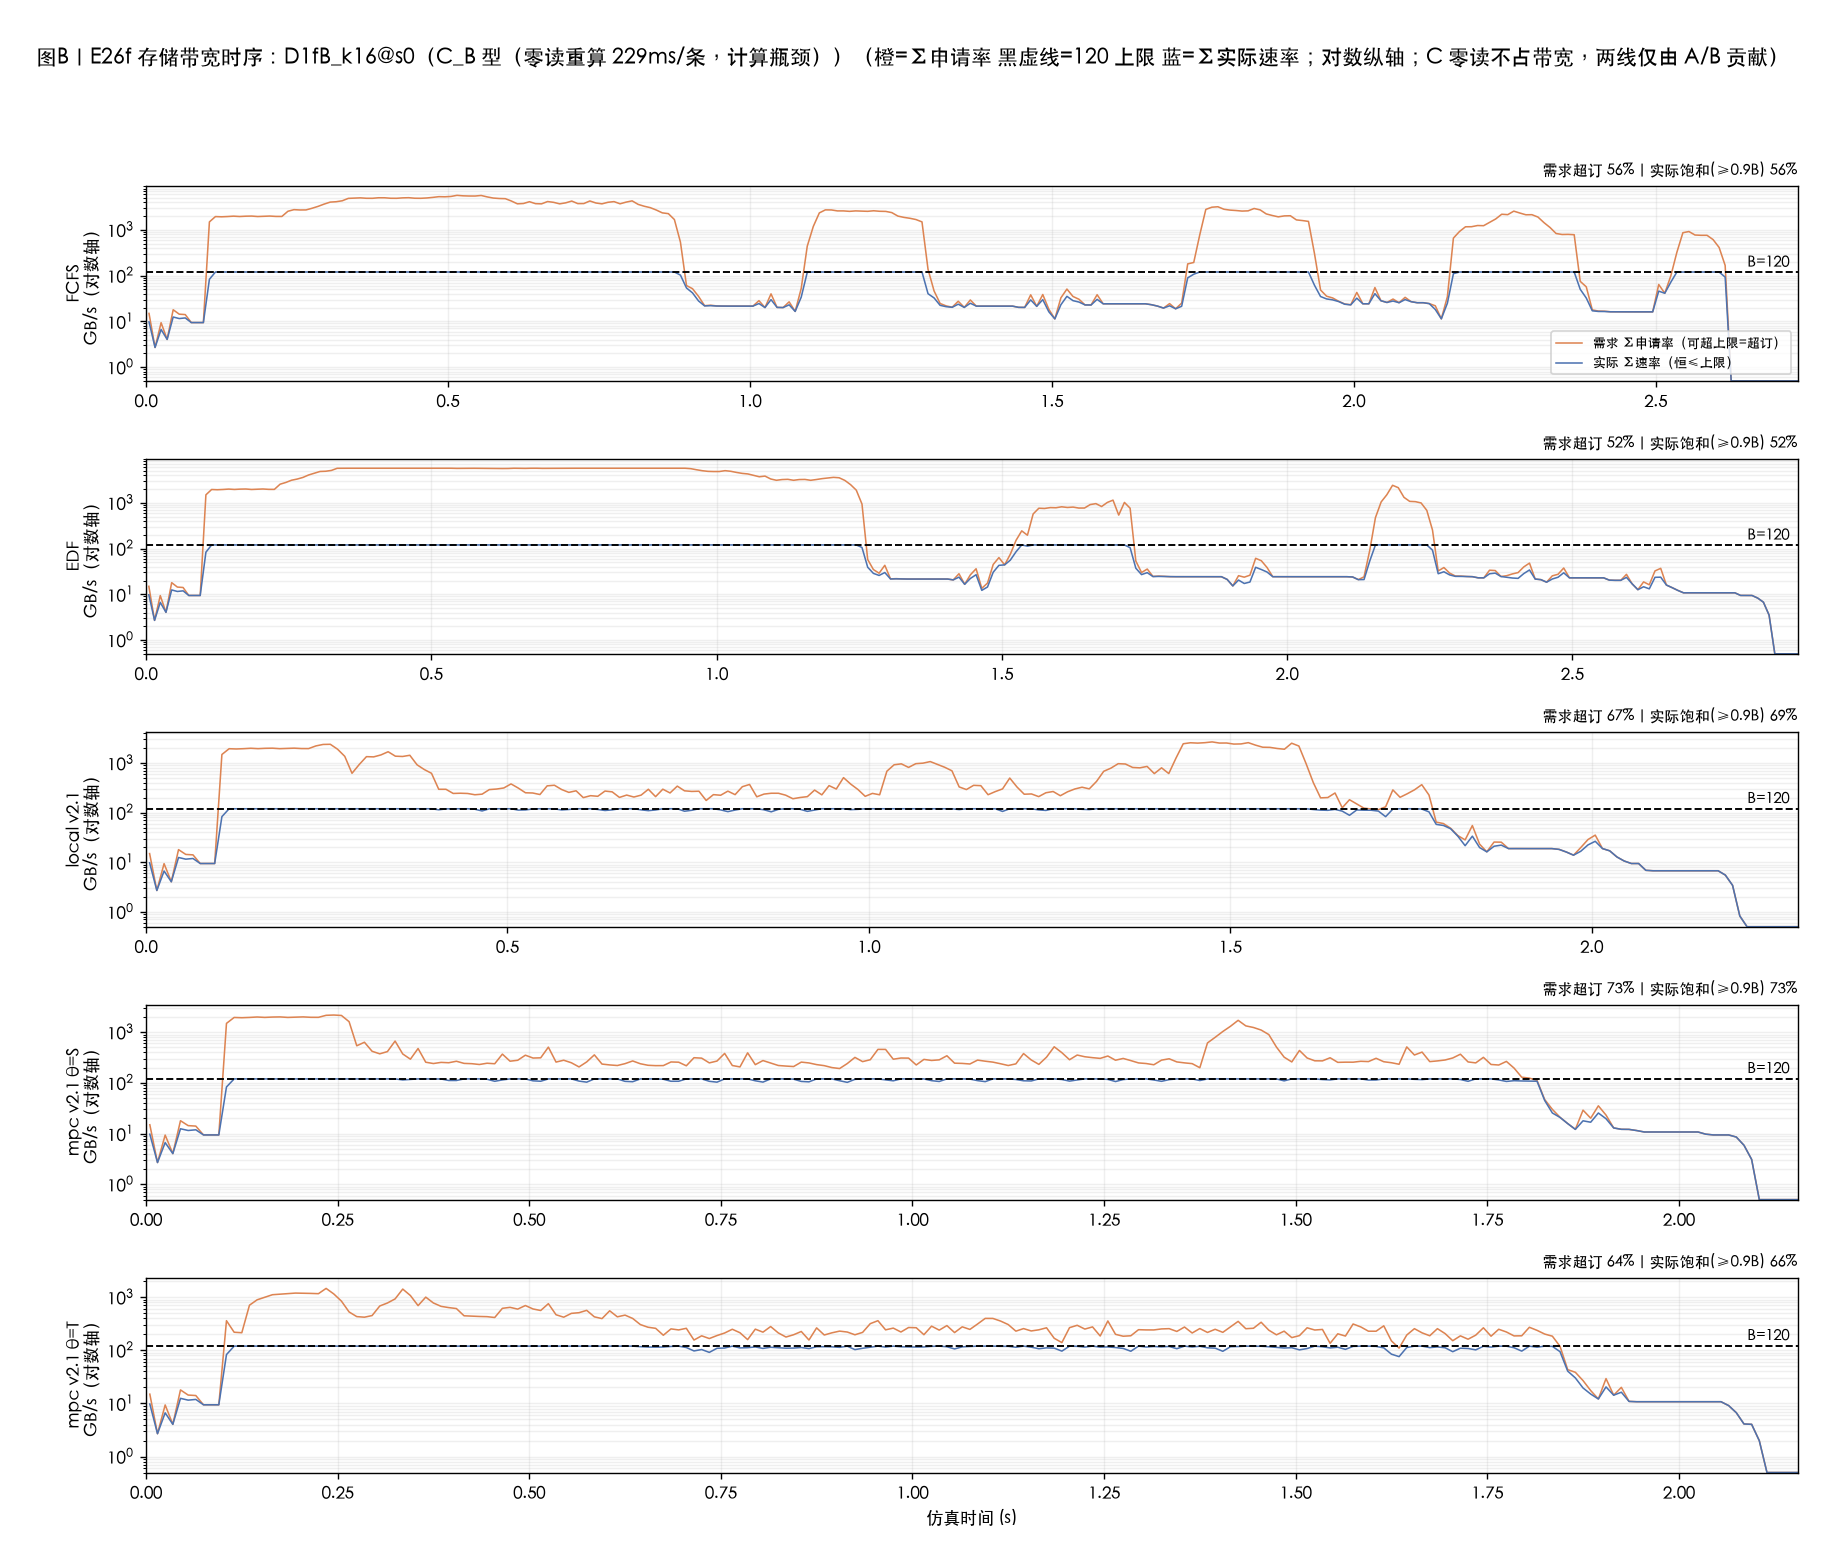
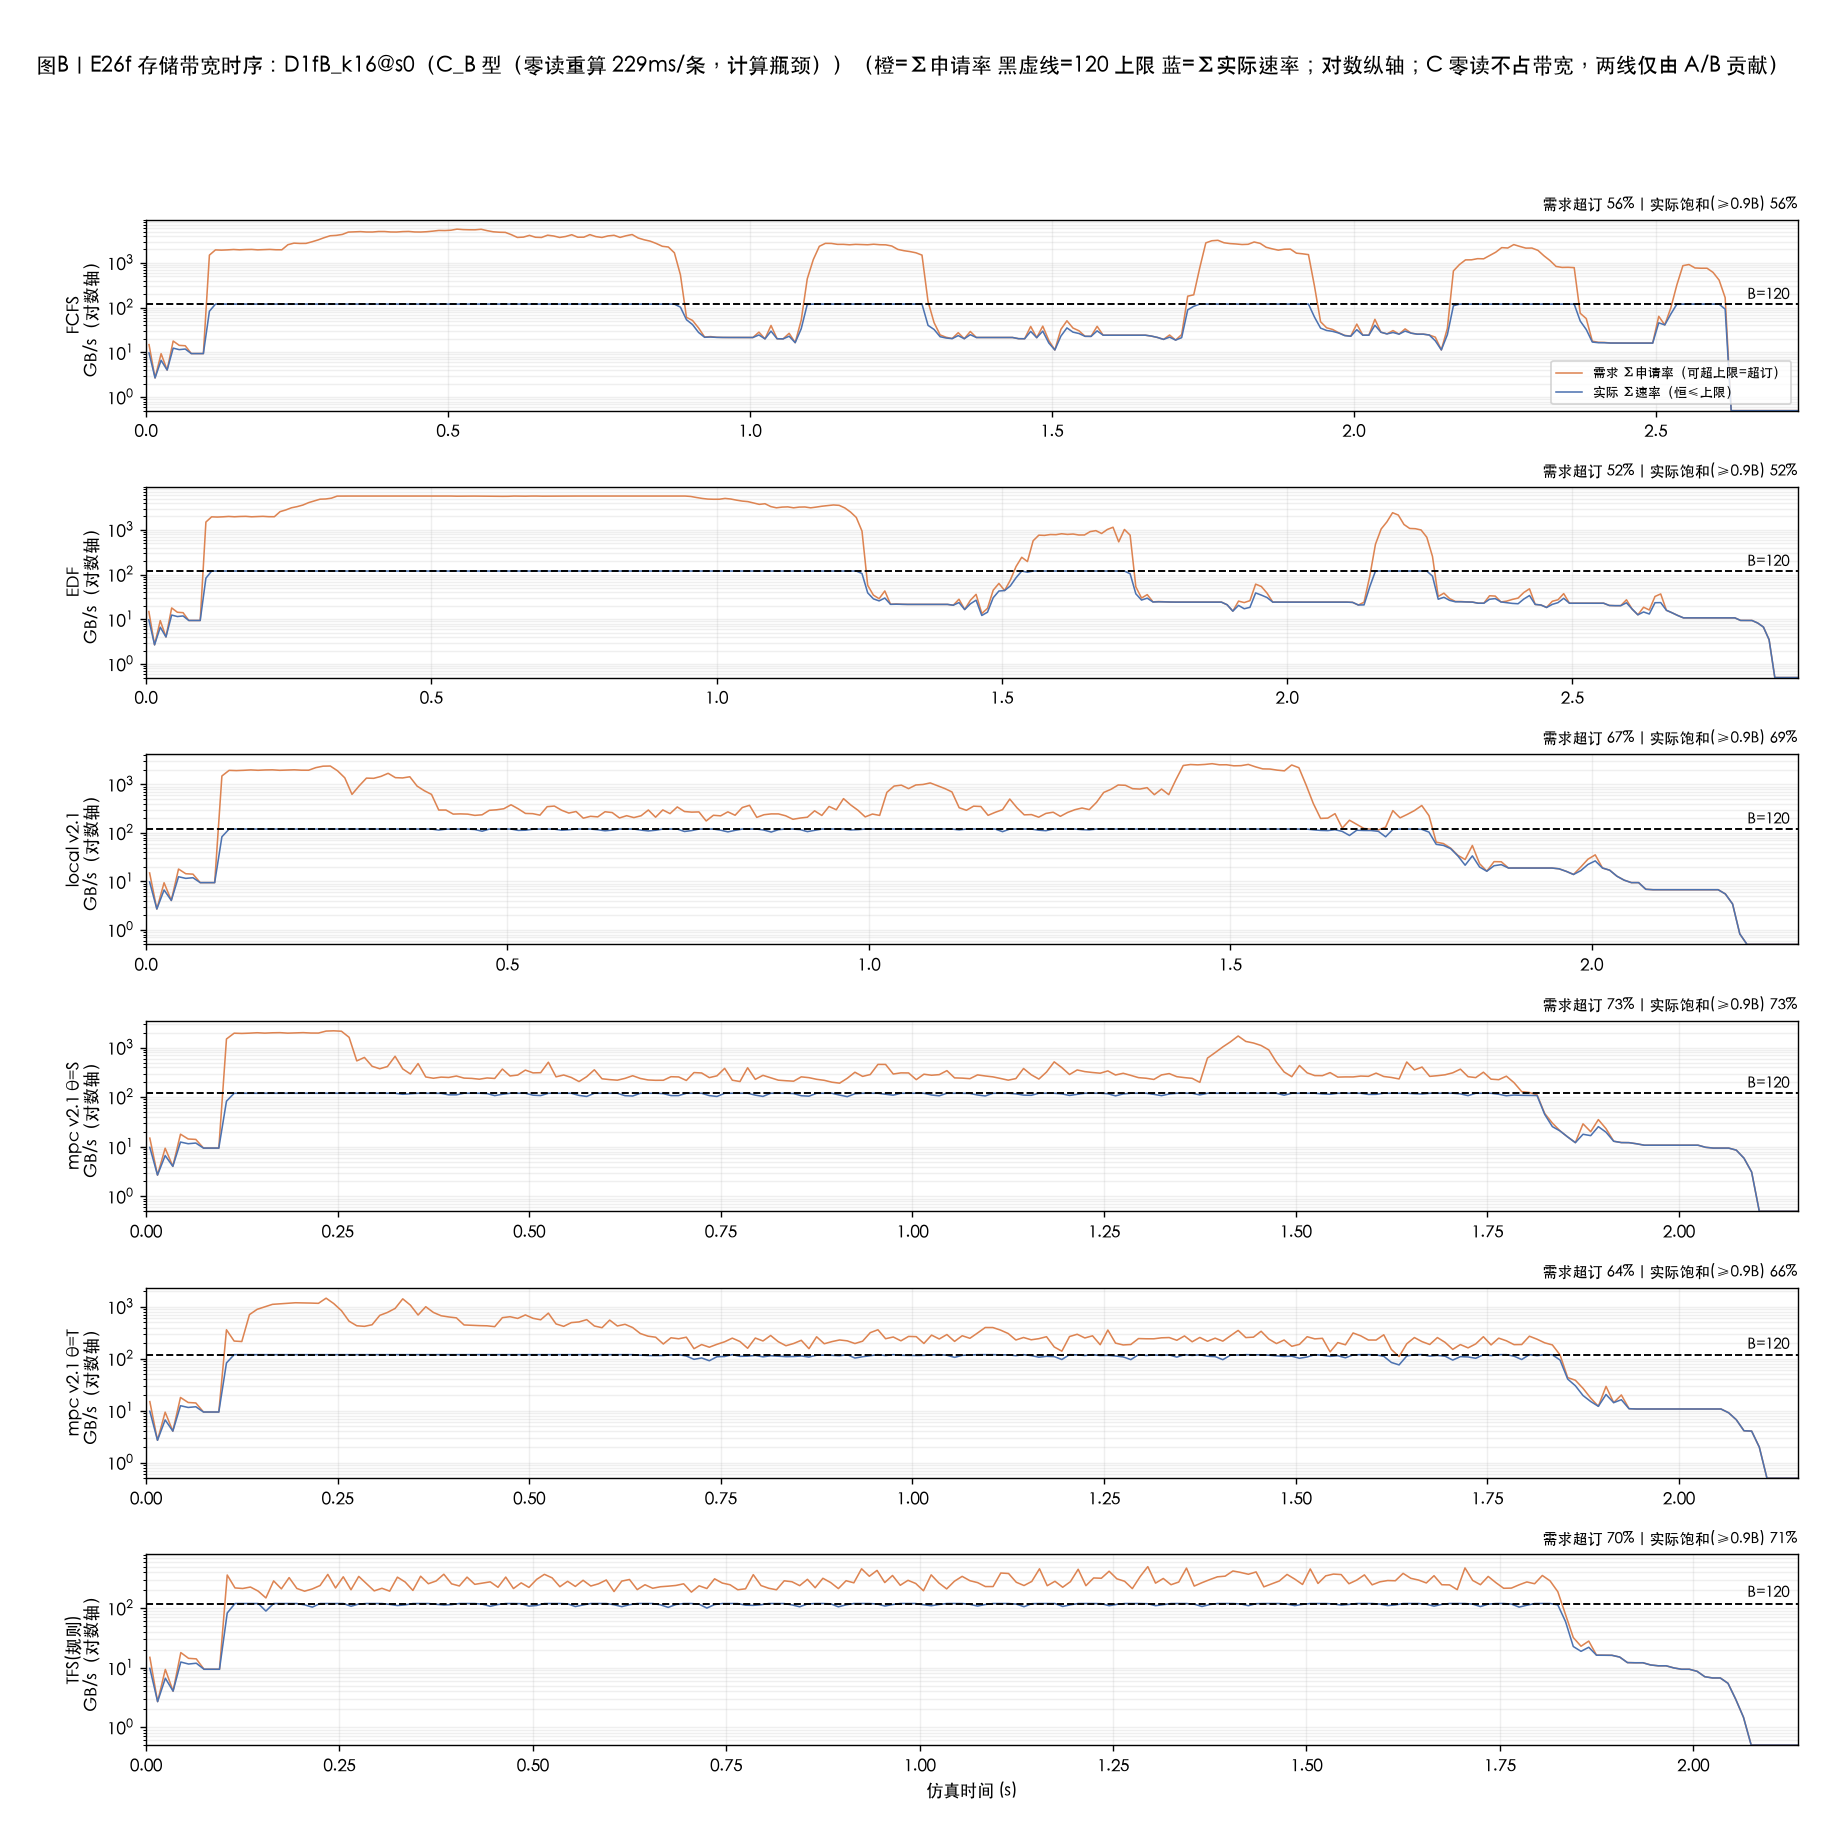
docs+E26f: TFS 增补验证结果——捕获 MPC 收益 95%(cA)/91%(cB),计算时间省 3 个数量级
结果文档 §9(用户指示并入 E26f):H1 收益捕获 ✓(cA (71.7−43.6)/(73.1−43.6)
=95.3%、cB 91.3%)、H2/H3 B/C 全保 ✓、H4 簇发峰中位 4=配额 C ✓;
计算时间表(§9.2):tfs decide 0.11ms/决策 vs mpcS 均摊 3529ms(≈3 万倍),
端到端 6.9s vs 6896s(1/1000);tfs 反超 local +10.3pp(cA);
九图重生成为 6 臂(旧臂数据不变,新增 TFS 行/条,重叠审计 0);
设计文档伪码同步为实现的合并序版本;e26f_tables 加 tfs。
结论:MPC 收益约九成来自可规则化结构,余 1~4pp 为推演看远溢价

diff --git a/tools/e26f_fig.py b/tools/e26f_fig.py
@@ -34,8 +34,9 @@ B_GBPS = 120.0
 BIN_S = 0.01
 
 ROWS = [("FCFS", "fcfs"), ("EDF", "edf"), ("local v2.1", "localS_v2.1"),
-        ("mpc v2.1 θ=S", "mpcS_v2.1"), ("mpc v2.1 θ=T", "mpcT_v2.1")]
-POLICY_ORDER = ["fcfs", "edf", "localS_v2.1", "mpcS_v2.1", "mpcT_v2.1"]
+        ("mpc v2.1 θ=S", "mpcS_v2.1"), ("mpc v2.1 θ=T", "mpcT_v2.1"),
+        ("TFS(规则)", "tfs")]
+POLICY_ORDER = ["fcfs", "edf", "localS_v2.1", "mpcS_v2.1", "mpcT_v2.1", "tfs"]
 CELLS = ["D1fA_k16", "D1fB_k16"]
 CELL_LABEL = {"D1fA_k16": "C_A 型（零读轻算 48ms/条，存储瓶颈）",
               "D1fB_k16": "C_B 型（零读重算 229ms/条，计算瓶颈）"}
@@ -116,8 +117,9 @@ def build_gantt(cell: str, rep: int, audit_only: bool):
         last = max((i for i, bk in enumerate(g["buckets"])
                     if any(v > 0 for row in bk for v in row)), default=0)
         t_max = max(t_max, (last + 1) * g["meta"]["T_anchor_s"] / K)
-    fig = plt.figure(figsize=(14.6, 3.0 * 5 + 0.9), dpi=125)
-    gs = GridSpec(5, 1, hspace=0.34, left=0.13, right=0.985, top=0.88,
+    n_row = len(ROWS)
+    fig = plt.figure(figsize=(14.6, 3.0 * n_row + 0.9), dpi=125)
+    gs = GridSpec(n_row, 1, hspace=0.34, left=0.13, right=0.985, top=0.88,
                   bottom=0.04)
     stats = []
     for ri, (label, g) in enumerate(gants):
@@ -127,7 +129,7 @@ def build_gantt(cell: str, rep: int, audit_only: bool):
         ax.set_ylabel(f"{label}\nA算{fr[0]:.0%} B算{fr[1]:.0%} "
                       f"C算{fr[2]:.0%}\nIO等{fr[3]:.0%} 闲{fr[4]:.0%}",
                       fontsize=9.5)
-        if ri == 4:
+        if ri == n_row - 1:
             ax.set_xlabel("仿真时间 (s)", fontsize=10)
     fig.suptitle(f"图A｜E26f 分类甘特：{tag}（{CELL_LABEL[cell]}）"
                  "（蓝=A算 橙=B算 绿=C算 红=IO等 灰=无请求）", fontsize=12.5, y=0.97)
@@ -160,8 +162,9 @@ def build_bw(cell: str, rep: int, audit_only: bool):
     from matplotlib.gridspec import GridSpec
 
     tag = f"{cell}@s{rep}"
-    fig = plt.figure(figsize=(14.6, 2.3 * 5 + 0.9), dpi=125)
-    gs = GridSpec(5, 1, hspace=0.40, left=0.08, right=0.985, top=0.88,
+    n_row = len(ROWS)
+    fig = plt.figure(figsize=(14.6, 2.3 * n_row + 0.9), dpi=125)
+    gs = GridSpec(n_row, 1, hspace=0.40, left=0.08, right=0.985, top=0.88,
                   bottom=0.05)
     for ri, (label, fn) in enumerate(ROWS):
         p = os.path.join(ROOT, tag, f"{fn}.intervals.npz")
@@ -196,7 +199,7 @@ def build_bw(cell: str, rep: int, audit_only: bool):
         ax.grid(alpha=.2, which="both")
         if ri == 0:
             ax.legend(loc="lower right", fontsize=7.5)
-        if ri == 4:
+        if ri == n_row - 1:
             ax.set_xlabel("仿真时间 (s)", fontsize=10)
         over = float(w[arr[:, 3] > B_GBPS].sum() / w.sum())
         sat = float(w[arr[:, 2] >= 0.9 * B_GBPS].sum() / w.sum())
@@ -224,7 +227,8 @@ def build_cdf(cell: str, rep: int, audit_only: bool):
 
     tag = f"{cell}@s{rep}"
     fig, ax = plt.subplots(figsize=(8.6, 5.2), dpi=125)
-    colors = ["#888888", "#C44E52", "#DD8452", "#4C72B0", "#2C5F9E"]
+    colors = ["#888888", "#C44E52", "#DD8452", "#4C72B0", "#2C5F9E",
+              "#55A868"]
     for (label, fn), col in zip(ROWS, colors):
         p = os.path.join(ROOT, tag, f"{fn}.requests.json.gz")
         if not os.path.exists(p):
@@ -301,7 +305,7 @@ def build_util(cell: str, rep: int, audit_only: bool):
         patch.set_facecolor("#9DC3E6" if "θ=S" not in _l else "#2C5F9E")
         patch.set_alpha(.75)
     means = [np.mean(x) for x in data]
-    ax1.scatter(range(1, 6), means, marker="D", s=26, color="#C44E52",
+    ax1.scatter(range(1, len(ROWS) + 1), means, marker="D", s=26, color="#C44E52",
                 zorder=3, label="均值")
     ax1.set_ylabel("逐 NPU 利用率（计算/makespan）%", fontsize=10)
     ax1.set_ylim(0, 100)
@@ -313,7 +317,7 @@ def build_util(cell: str, rep: int, audit_only: bool):
                               zip(labels, cvs)), fontsize=8.6)
     mat = np.array(data)
     im = ax2.imshow(mat, aspect="auto", cmap="viridis", vmin=0, vmax=100)
-    ax2.set_yticks(range(5))
+    ax2.set_yticks(range(len(ROWS)))
     ax2.set_yticklabels(labels, fontsize=9)
     ax2.set_xticks([0, 7, 15, 23, 31])
     ax2.set_xlabel("NPU 编号", fontsize=10)

diff --git a/tools/e26f_tables.py b/tools/e26f_tables.py
@@ -10,7 +10,7 @@ import numpy as np
 
 REPO = os.path.dirname(os.path.dirname(os.path.abspath(__file__)))
 ROOT = os.path.join(REPO, "results", "cq", "eval", "e26f")
-ARMS = ["fcfs", "edf", "localS_v2.1", "mpcS_v2.1", "mpcT_v2.1"]
+ARMS = ["fcfs", "edf", "localS_v2.1", "mpcS_v2.1", "mpcT_v2.1", "tfs"]
 CELLS = ["D1fA_k16", "D1fB_k16"]
 
 

diff --git a/docs/TFS规则式调度器-20261014.md b/docs/TFS规则式调度器-20261014.md
@@ -61,33 +61,41 @@ MPC(推演式)在 E26 系列持续胜出,但代价是每格点 1~1.9h 墙钟(E26
 
 参数:无新增自由度(d_heavy/C/wake 沿用 base 口径);slack 用公开 T0。
 
-### 3.3 伪码
+### 3.3 伪码(20261015 实现版:单序合并扫描)
+
+实现将 R1/R2 合并为**单一 (slack, deadline, rid) 序扫描 + 配额跳过**——配额满时跳过重流继续找轻流(填空律),轻流不被阻塞;锚点在扫描之后(天然让位)。与双列表(轻流全先于重流)仅在"worker 稀缺且队首有宽 slack 轻流挡住紧 slack 重流"时不同,合并序更贴证据(slack 仲裁全局一致)。
 
 ```python
 class TFS(SimplePolicy):                      # pid "cq_tfs"
     def decide(self, snap, scn):
         d, d_heavy, C, heavy_run, wake = bw_demand(snap, self._hist)
-        slack = {r.rid: float(r.deadline_s) - float(snap.now) - float(r.T0_s)
-                 for r in snap.requests if r.rid in snap.queued}
-        light = sorted((r for r in snap.requests if r.rid in snap.queued
-                        and d[r.rid] < d_heavy),
-                       key=lambda r: (slack[r.rid], r.deadline_s, r.rid))
-        heavy = sorted((r for r in snap.requests if r.rid in snap.queued
-                        and d[r.rid] >= d_heavy),
-                       key=lambda r: (slack[r.rid], r.deadline_s, r.rid))
         anchors = self._aged_anchors(snap, scn)
+        now = float(snap.now)
+        queued = [r for r in snap.requests if r.rid in snap.queued]
+        slack = {r.rid: float(r.deadline_s) - now - float(r.T0_s)
+                 for r in queued}
+        order = sorted(queued, key=lambda r: (slack[r.rid],
+                                              float(r.deadline_s), r.rid))
         acts, used, acc = [], set(), heavy_run
         for wid in sorted(snap.idle_workers):
-            pick = next((r.rid for r in light if r.rid not in used), None)
-            if pick is None and acc < C:                  # R2:重流守门(slack 序)
-                pick = next((r.rid for r in heavy if r.rid not in used), None)
-            if pick is None and not any(r.rid not in used
-                                        for r in light):   # R3:锚点让位后豁免
-                pick = next((a for a in anchors
-                             if a in snap.queued and a not in used), None)
-            if pick is None:                              # R4:错峰 WAIT
-                acts.append(Action("WAIT", wid, (), wake)); continue
-            acts.append(Action("DISPATCH", wid, (pick,)))  # R1:轻流恒可派(slack 序)
+            pick = None
+            for r in order:                             # R1+R2:合并序+配额跳过
+                if r.rid in used:
+                    continue
+                if d[r.rid] >= d_heavy and acc >= C:
+                    continue     # 配额满:跳过重流,继续找轻流(轻流永不被阻塞)
+                pick = r.rid
+                break
+            if pick is None and not any(                 # R3:锚点让位
+                    d[r.rid] < d_heavy and r.rid not in used for r in order):
+                for a in anchors:
+                    if a in snap.queued and a not in used:
+                        pick = a
+                        break
+            if pick is None:                             # R4:错峰 WAIT
+                acts.append(Action("WAIT", wid, (), wake))
+                continue
+            acts.append(Action("DISPATCH", wid, (pick,)))
             used.add(pick)
             if d[pick] >= d_heavy:
                 acc += 1
